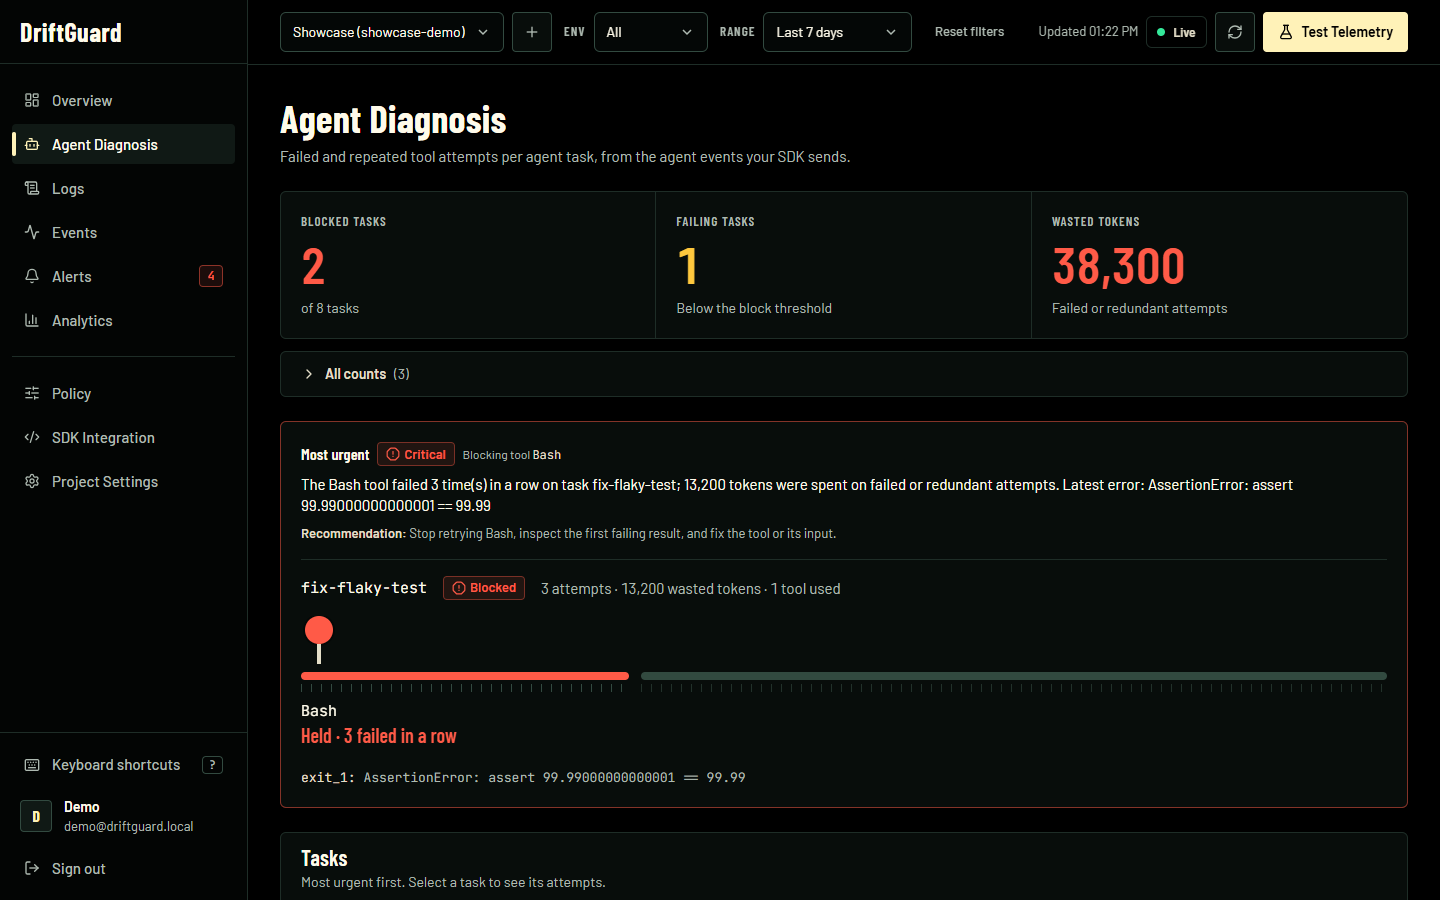
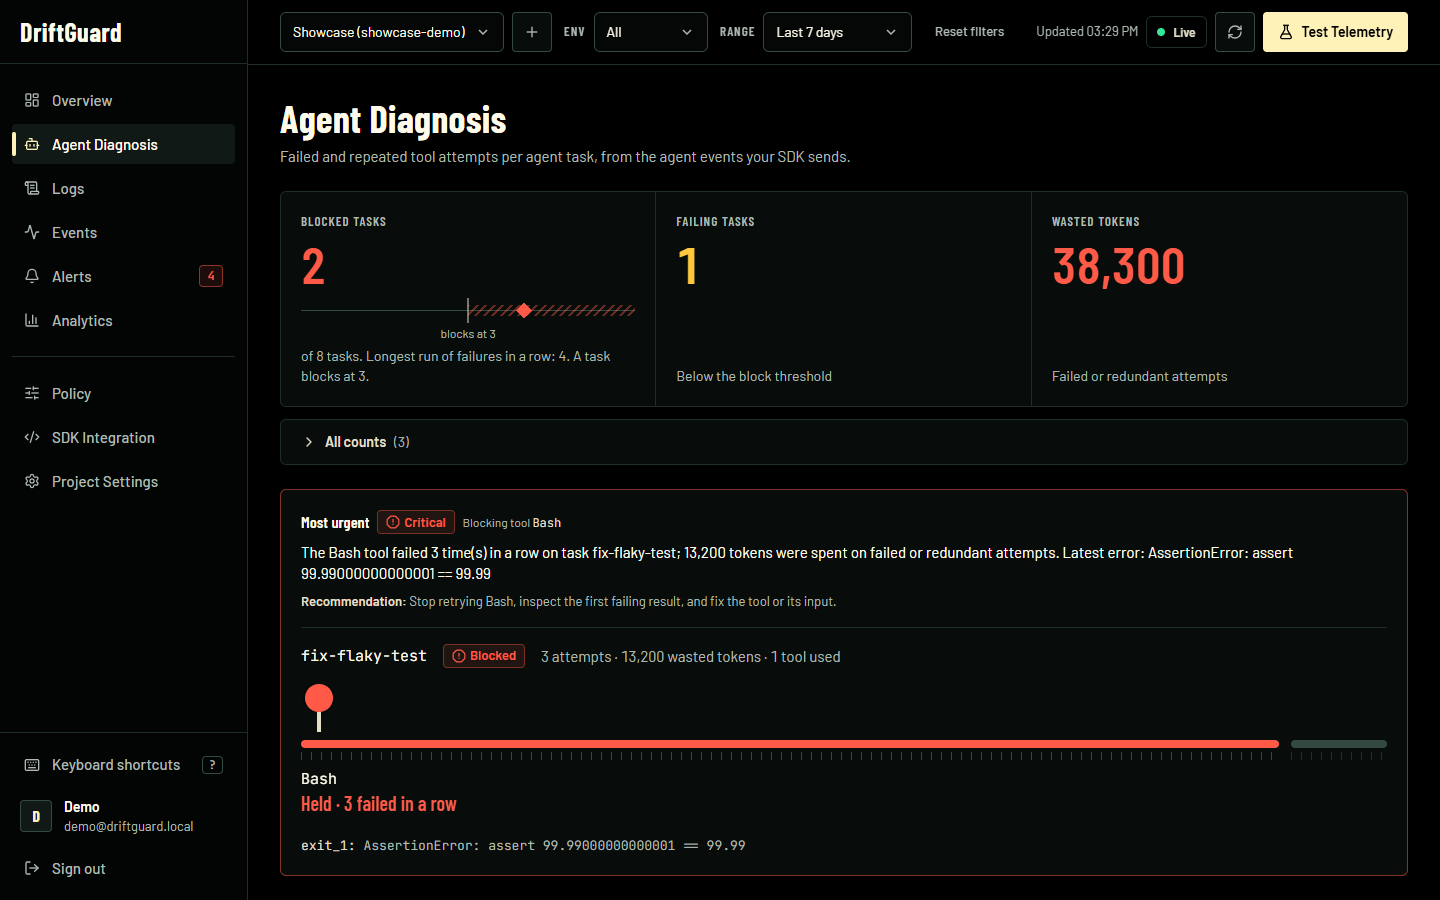
feat(dashboard): fuller track, failures-in-a-row gauge, no layout gaps, better phone layout
Make the track diagram's sections share the full width, add a gauge of the longest
run of failures against the block threshold on Agent Diagnosis, move Top Root
Causes under Drift Risk Breakdown with Open Alerts full width, and fix the phone
layout (one-line scrolling chart legend, icon-only Test Telemetry, wrapping filter
row). Retake the Overview and Agent Diagnosis screenshots and update the docs.

diff --git a/frontend/src/views/Overview.tsx b/frontend/src/views/Overview.tsx
@@ -382,71 +382,70 @@ export function Overview({ onNavigate }: { onNavigate: (view: ViewId) => void })
             </ResourceView>
           </Panel>
 
-          <Panel title="Drift Risk Breakdown" description="Share of events violating each policy rule.">
-            <ResourceView
-              resource={summary}
-              isEmpty={(data) => data.total_events === 0}
-              empty={<EmptyState title="No telemetry in this window">Rates appear once events are scored.</EmptyState>}
-            >
-              {(data) => <RiskBreakdown rates={data.violation_rates} policy={data.policy} />}
-            </ResourceView>
-          </Panel>
+          <div className="space-y-6">
+            <Panel title="Drift Risk Breakdown" description="Share of events violating each policy rule.">
+              <ResourceView
+                resource={summary}
+                isEmpty={(data) => data.total_events === 0}
+                empty={<EmptyState title="No telemetry in this window">Rates appear once events are scored.</EmptyState>}
+              >
+                {(data) => <RiskBreakdown rates={data.violation_rates} policy={data.policy} />}
+              </ResourceView>
+            </Panel>
+
+            <Panel title="Top Root Causes" description="Most frequent causes among warning and critical events.">
+              <ResourceView
+                resource={summary}
+                isEmpty={(data) => data.top_root_causes.length === 0}
+                empty={<EmptyState title="No drift detected">No warning or critical events in this window.</EmptyState>}
+              >
+                {(data) => {
+                  const max = Math.max(...data.top_root_causes.map((c) => c.count));
+                  return (
+                    <ol className="space-y-3">
+                      {data.top_root_causes.map((cause) => (
+                        <li key={cause.root_cause}>
+                          <div className="mb-1 flex items-start justify-between gap-3 text-sm">
+                            <span className="text-body">{cause.root_cause}</span>
+                            <span className="tabular shrink-0 font-mono text-muted">{fmtInt(cause.count)}</span>
+                          </div>
+                          <div className="h-1.5 rounded-sm bg-white/[0.05]" aria-hidden>
+                            <div className="h-full rounded-sm bg-route/70" style={{ width: `${(cause.count / max) * 100}%` }} />
+                          </div>
+                        </li>
+                      ))}
+                    </ol>
+                  );
+                }}
+              </ResourceView>
+            </Panel>
+          </div>
         </div>
 
-        <div className="grid items-start gap-6 xl:grid-cols-3">
-          <Panel title="Top Root Causes" description="Most frequent causes among warning and critical events.">
-            <ResourceView
-              resource={summary}
-              isEmpty={(data) => data.top_root_causes.length === 0}
-              empty={<EmptyState title="No drift detected">No warning or critical events in this window.</EmptyState>}
-            >
-              {(data) => {
-                const max = Math.max(...data.top_root_causes.map((c) => c.count));
-                return (
-                  <ol className="space-y-3">
-                    {data.top_root_causes.map((cause) => (
-                      <li key={cause.root_cause}>
-                        <div className="mb-1 flex items-start justify-between gap-3 text-sm">
-                          <span className="text-body">{cause.root_cause}</span>
-                          <span className="tabular shrink-0 font-mono text-muted">{fmtInt(cause.count)}</span>
-                        </div>
-                        <div className="h-1.5 rounded-sm bg-white/[0.05]" aria-hidden>
-                          <div className="h-full rounded-sm bg-route/70" style={{ width: `${(cause.count / max) * 100}%` }} />
-                        </div>
-                      </li>
-                    ))}
-                  </ol>
-                );
-              }}
-            </ResourceView>
-          </Panel>
-
-          <Panel
-            title="Open Alerts"
-            description="Latest open alerts."
-            className="xl:col-span-2"
-            bodyClassName=""
-            actions={
-              <Button size="sm" variant="ghost" onClick={() => onNavigate('alerts')} icon={<ArrowRight aria-hidden className="size-3.5" />}>
-                All alerts
-              </Button>
-            }
+        <Panel
+          title="Open Alerts"
+          description="Latest open alerts."
+          bodyClassName=""
+          actions={
+            <Button size="sm" variant="ghost" onClick={() => onNavigate('alerts')} icon={<ArrowRight aria-hidden className="size-3.5" />}>
+              All alerts
+            </Button>
+          }
+        >
+          <ResourceView
+            resource={alerts}
+            isEmpty={(data) => data.length === 0}
+            empty={<EmptyState title="No open alerts">Critical drift and blocked agent tasks raise alerts here.</EmptyState>}
           >
-            <ResourceView
-              resource={alerts}
-              isEmpty={(data) => data.length === 0}
-              empty={<EmptyState title="No open alerts">Critical drift and blocked agent tasks raise alerts here.</EmptyState>}
-            >
-              {(data) => (
-                <ul>
-                  {data.map((alert) => (
-                    <AlertRow key={alert.id} alert={alert} />
-                  ))}
-                </ul>
-              )}
-            </ResourceView>
-          </Panel>
-        </div>
+            {(data) => (
+              <ul>
+                {data.map((alert) => (
+                  <AlertRow key={alert.id} alert={alert} />
+                ))}
+              </ul>
+            )}
+          </ResourceView>
+        </Panel>
       </div>
     </>
   );

diff --git a/frontend/src/views/AgentDiagnosis.tsx b/frontend/src/views/AgentDiagnosis.tsx
@@ -3,6 +3,7 @@ import { useState } from 'react';
 import { api } from '../api';
 import { Badge, SeverityBadge, TaskStatusBadge, attemptTone } from '../components/Badges';
 import { CodeBlock } from '../components/Copy';
+import { BaselineGauge } from '../components/BaselineGauge';
 import { Instrument, InstrumentStrip } from '../components/Instrument';
 import { TrackDiagram } from '../components/TrackDiagram';
 import { Drawer } from '../components/Overlay';
@@ -11,6 +12,7 @@ import { EmptyState, ResourceView } from '../components/States';
 import { ClickableRow, TableScroll, Td, Th } from '../components/Table';
 import { DASH, fmtDateTime, fmtDuration, fmtInt, fmtRelative } from '../lib/format';
 import { useProjectQuery } from '../state/queries';
+import { useWorkspace } from '../state/workspace';
 import type { AgentDiagnosis as Diagnosis, AgentEvent, AgentTask } from '../types';
 
 const EMIT_SNIPPET = `client.capture_agent_event(
@@ -25,6 +27,10 @@ const EMIT_SNIPPET = `client.capture_agent_event(
 client.sync_agent_events()`;
 
 function DiagnosisStats({ data }: { data: Diagnosis }) {
+  const { summary } = useWorkspace();
+  const threshold = summary.data?.policy.blocked_after_failures;
+  const run = data.tasks.reduce((most, task) => Math.max(most, task.consecutive_failures), 0);
+  const scaleMax = Math.max((threshold ?? 3) * 2, run + 1);
   return (
     <div className="space-y-3">
       <InstrumentStrip label="Diagnosis instruments" columns={3}>
@@ -32,8 +38,23 @@ function DiagnosisStats({ data }: { data: Diagnosis }) {
           label="Blocked tasks"
           figure={fmtInt(data.blocked_tasks)}
           figureTone={data.blocked_tasks ? 'text-coral' : 'text-ink'}
-          note={`of ${fmtInt(data.task_count)} tasks`}
-        />
+          note={
+            threshold === undefined
+              ? `of ${fmtInt(data.task_count)} tasks`
+              : `of ${fmtInt(data.task_count)} tasks. Longest run of failures in a row: ${run}. A task blocks at ${threshold}.`
+          }
+        >
+          {threshold !== undefined && (
+            <BaselineGauge
+              summary={`Longest run of failures in a row is ${run}. A task is blocked at ${threshold}.`}
+              value={run}
+              max={scaleMax}
+              marks={[{ at: threshold, label: `blocks at ${threshold}` }]}
+              bad={{ from: threshold, to: scaleMax }}
+              tone={run >= threshold ? 'critical' : run > 0 ? 'warning' : 'ok'}
+            />
+          )}
+        </Instrument>
         <Instrument
           label="Failing tasks"
           figure={fmtInt(data.failing_tasks)}

diff --git a/frontend/src/components/Header.tsx b/frontend/src/components/Header.tsx
@@ -101,20 +101,20 @@ export function Header({ onOpenMenu, menuOpen, onNewProject, onTestTelemetry }: 
         )}
 
         {project && (
-          <div className="order-last flex w-full gap-3 sm:order-none sm:w-auto">
+          <div className="order-last flex w-full flex-wrap items-center gap-x-3 gap-y-1 sm:order-none sm:w-auto">
             <LabeledSelect
               label="Env"
               value={filters.environment}
               onChange={(value) => setFilters({ ...filters, environment: value as Environment | 'all' })}
               options={ENV_OPTIONS}
-              className="flex-1 sm:w-36 sm:flex-none"
+              className="w-[7.25rem] shrink-0 sm:w-36"
             />
             <LabeledSelect
               label="Range"
               value={filters.timeRange}
               onChange={(value) => setFilters({ ...filters, timeRange: value as TimeRange })}
               options={RANGE_OPTIONS}
-              className="flex-1 sm:w-48 sm:flex-none"
+              className="min-w-[11rem] flex-1 sm:w-48 sm:flex-none"
             />
             {filtered && (
               <Button size="sm" variant="ghost" className="self-center" onClick={() => setFilters({ environment: 'all', timeRange: '24h' })}>
@@ -143,9 +143,14 @@ export function Header({ onOpenMenu, menuOpen, onNewProject, onTestTelemetry }: 
               >
                 <RefreshCw aria-hidden className={`size-4 ${refreshing ? 'animate-spin text-route' : ''}`} />
               </IconButton>
-              <Button variant="primary" onClick={onTestTelemetry} icon={<FlaskConical aria-hidden className="size-4" />}>
+              <Button
+                variant="primary"
+                onClick={onTestTelemetry}
+                aria-label="Test Telemetry"
+                title="Test Telemetry"
+                icon={<FlaskConical aria-hidden className="size-4" />}
+              >
                 <span className="hidden sm:inline">Test Telemetry</span>
-                <span className="sm:hidden">Test</span>
               </Button>
             </>
           )}

diff --git a/frontend/src/components/TrackDiagram.tsx b/frontend/src/components/TrackDiagram.tsx
@@ -28,7 +28,7 @@ export function TrackDiagram({ task }: { task: AgentTask }) {
             {tools.map((tool) => {
               const blocking = tool === task.blocking_tool;
               return (
-                <li key={tool} className="relative min-w-[220px] max-w-[340px] flex-1 pr-3">
+                <li key={tool} className="relative min-w-[220px] flex-1 pr-3">
                   {blocking && (
                     <span className="absolute -top-14 left-1 flex flex-col items-center">
                       <Lamp state="critical" size="lg" />
@@ -50,7 +50,7 @@ export function TrackDiagram({ task }: { task: AgentTask }) {
                 </li>
               );
             })}
-            <li aria-hidden className="min-w-16 flex-1">
+            <li aria-hidden className="w-24 shrink-0">
               <div className="h-2 rounded-sm bg-hairline-strong" />
               <div className="sleepers mt-1 h-2 opacity-60" />
             </li>

diff --git a/frontend/src/charts/common.tsx b/frontend/src/charts/common.tsx
@@ -68,9 +68,13 @@ export interface LegendItem {
 /** HTML legend so identity never depends on color alone (dashes and shapes differ). */
 export function ChartLegend({ items }: { items: LegendItem[] }) {
   return (
-    <ul className="mb-3 flex flex-wrap gap-x-4 gap-y-1.5 text-xs text-muted" aria-label="Legend">
+    <ul
+      tabIndex={0}
+      className="mb-3 flex gap-x-4 gap-y-1.5 overflow-x-auto pb-1 text-xs whitespace-nowrap text-muted sm:flex-wrap sm:overflow-visible sm:pb-0"
+      aria-label="Legend"
+    >
       {items.map((item) => (
-        <li key={item.label} className="flex items-center gap-1.5">
+        <li key={item.label} className="flex shrink-0 items-center gap-1.5">
           <LegendSwatch item={item} />
           {item.label}
         </li>

diff --git a/docs/progress.md b/docs/progress.md
@@ -167,16 +167,21 @@ evaluation.
 It is advice only. It raises no alert and doesn't change the status, and it
 treats events as independent and mixes all models and routes together.
 
-### Open items from the review
+### Review items, and what was done about them
 
-- The track diagram is sparse for a task that used one tool: a single red
-  section and a long empty rail. A task with several tools fills it better.
-- The Agent Diagnosis instruments have no gauges, and its panels are still plain
-  bordered boxes.
-- On the Overview, two panels below the fold leave empty space, and they are
-  plain boxes rather than part of the signal box look.
-- On a phone, the timeline legend takes up much of the plot, and the header
-  **Test** button is cramped.
+- **Track diagram sparse for a one-tool task.** Fixed: sections now share the full
+  width, so a task with one tool fills the track with its red section.
+- **Agent Diagnosis instruments had no gauges.** Fixed for the headline reading:
+  **Blocked tasks** now carries a gauge of the longest run of failures in a row
+  against the block threshold from Policy. The other instruments are counts, so
+  they have no baseline to draw.
+- **Empty space below the Overview's charts.** Fixed: Top Root Causes now sits under
+  Drift Risk Breakdown, beside the timeline, and Open Alerts runs full width.
+- **Phone layout.** Fixed: the chart legend is one scrolling line instead of
+  three, **Test Telemetry** is an icon on a phone, and the filter row wraps so the
+  Range select stays readable.
+- **Still open:** the panels below the Overview's first screen are still plain
+  bordered boxes rather than plates, which is a matter of taste.
 
 ## What still needs to be done
 

diff --git a/docs/dashboard.md b/docs/dashboard.md
@@ -102,7 +102,7 @@ amber line adds it, for example "Worse than usual. Response quality is 0.08
 lower than the 24 hours before." This is advice only: it doesn't change the
 lamp or raise an alert. See [the baseline comparison](concepts.md#is-it-worse-than-usual-baseline-comparison).
 
-**Track.** The most urgent task drawn as a track. Each tool the task used is a
+**Track.** The most urgent task drawn as a track, with its sections sharing the full width. Each tool the task used is a
 block section, in the order it was first used. The blocking tool is lit red
 under a red signal, with the number of failures in a row. Other tools say "No
 block reported". Below it you see the latest error, and how many more tasks the
@@ -171,7 +171,7 @@ rest.
 
 | Reading | Meaning |
 | --- | --- |
-| Blocked tasks | Tasks where one tool has failed at least *blocked after failures* times in a row (3 by default) and hasn't succeeded since. |
+| Blocked tasks | Tasks where one tool has failed at least *blocked after failures* times in a row (3 by default) and hasn't succeeded since. A gauge under it draws the longest run of failures in a row against that threshold. |
 | Failing tasks | A shorter run of failures in a row. |
 | Wasted tokens | Tokens of failed attempts plus redundant ones. |
 | Failures *(All counts)* | All failed tool attempts. |

diff --git a/docs/roadmap.md b/docs/roadmap.md
@@ -90,6 +90,9 @@ runs, not by unit tests: the frontend has none yet.
 - [x] **Operator efficiency.** Keyboard shortcuts, shareable links that carry
   the view, project and filters, bulk resolve and reopen, arrow-key tabs.
 - [x] **Policy impact preview**, inline validation and a change summary.
+- [x] Redesign review fixes: a track that fills its width, a failures-in-a-row
+  gauge on Agent Diagnosis, no gaps below the Overview's charts, and a readable
+  phone layout.
 - [x] The baseline line reads "No clear change" and shows its sample size, after the
   [baseline study](../research/BASELINE_STUDY.md) found "steady" over-claimed.
 - [x] **Baseline comparison.** Mean retrieval, quality and risk against the period
@@ -113,9 +116,8 @@ runs, not by unit tests: the frontend has none yet.
   didn't repeat the request) as a quality proxy.
 
 ### Dashboard
-- [ ] Finish the redesign review items: a fuller track diagram, gauges and the
-  same look on Agent Diagnosis and the lower Overview panels, and a better phone
-  layout for the timeline legend and header.
+- [ ] Give the panels below the Overview's first screen the same plate look as the
+  status plate and instruments.
 - [ ] Frontend unit tests, starting with shortcuts, URL filters and the Policy
   preview.
 - [ ] Saved views, and tab and search state in the address.

diff --git a/docs/design-system.md b/docs/design-system.md
@@ -80,7 +80,7 @@ Square-ish corners (4px), 40px minimum height. The primary action is a push-butt
 
 ### Navigation
 
-Fixed 248px rail. Items are grouped by a rule into **Monitor** (Overview, Agent Diagnosis, Logs, Events, Alerts, Analytics) and **Configure** (Policy, SDK Integration, Project Settings). The active item has a raised surface and an ivory marker. The alert count is a small plate, amber or red, whose screen-reader text says whether any alert is critical. Disabled items stay readable and say why in a tooltip. On mobile the rail collapses into a labeled menu.
+Fixed 248px rail. Items are grouped by a rule into **Monitor** (Overview, Agent Diagnosis, Logs, Events, Alerts, Analytics) and **Configure** (Policy, SDK Integration, Project Settings). The active item has a raised surface and an ivory marker. The alert count is a small plate, amber or red, whose screen-reader text says whether any alert is critical. Disabled items stay readable and say why in a tooltip. On mobile the rail collapses into a labeled menu. In the header, **Test Telemetry** becomes an icon on a phone and the filter row wraps, so the Range select stays readable.
 
 ### Filters
 

diff --git a/CHANGELOG.md b/CHANGELOG.md
@@ -119,6 +119,12 @@ All notable changes to DriftGuard are recorded here. The format follows
   the open list is a black panel with a hairline border, a highlighted row and a
   check mark on the chosen item. Other browsers keep their own list in the same
   colours.
+- **Layout fixes from the design review.** The track diagram's sections share the
+  full width. Agent Diagnosis gains a gauge of the longest run of failures in a
+  row against the block threshold. Top Root Causes moves under Drift Risk
+  Breakdown and Open Alerts runs full width, so there are no empty gaps. On a
+  phone the chart legend is one scrolling line, Test Telemetry is an icon, and the
+  filter row wraps.
 - The baseline line says **No clear change** instead of "Steady", and every verdict
   shows the events it rests on, for example "(89 events now, 93 before)". Under 30
   events on a side it adds that a small drop could be missed. The research study
